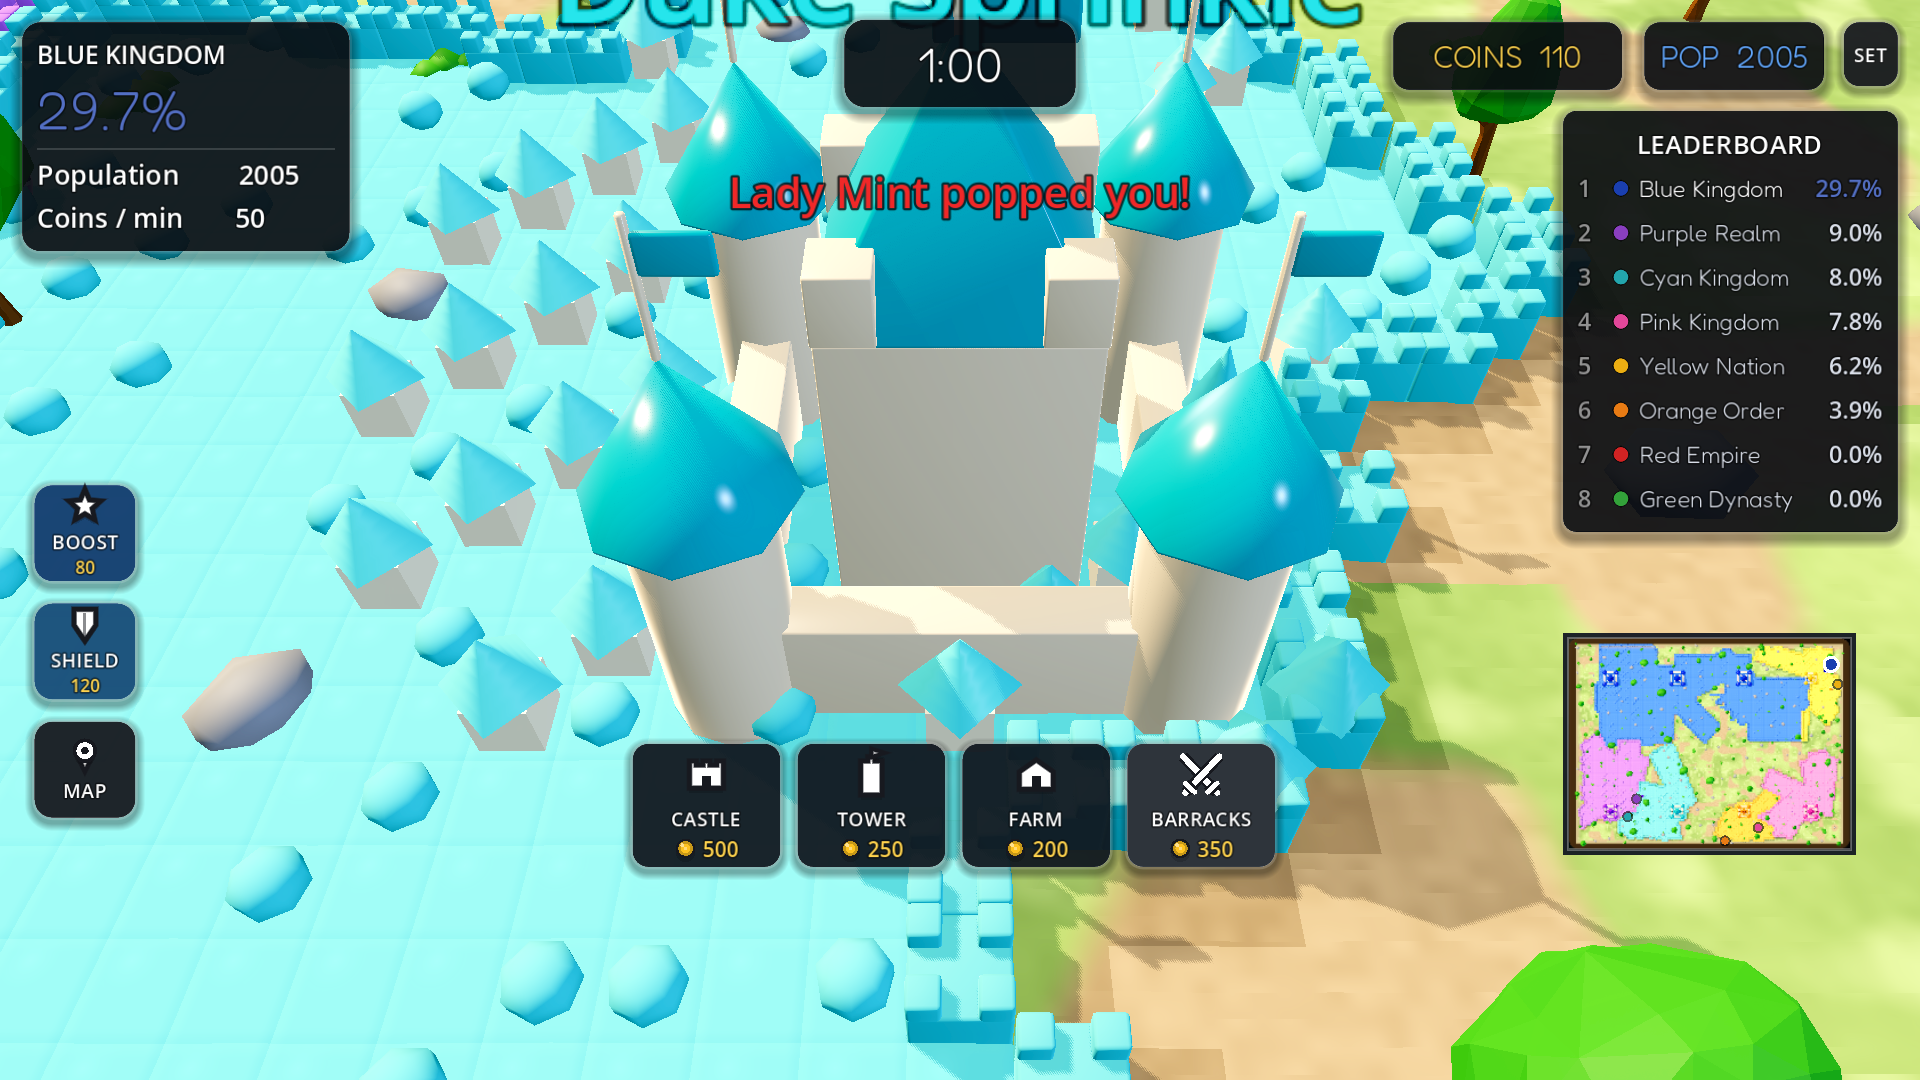
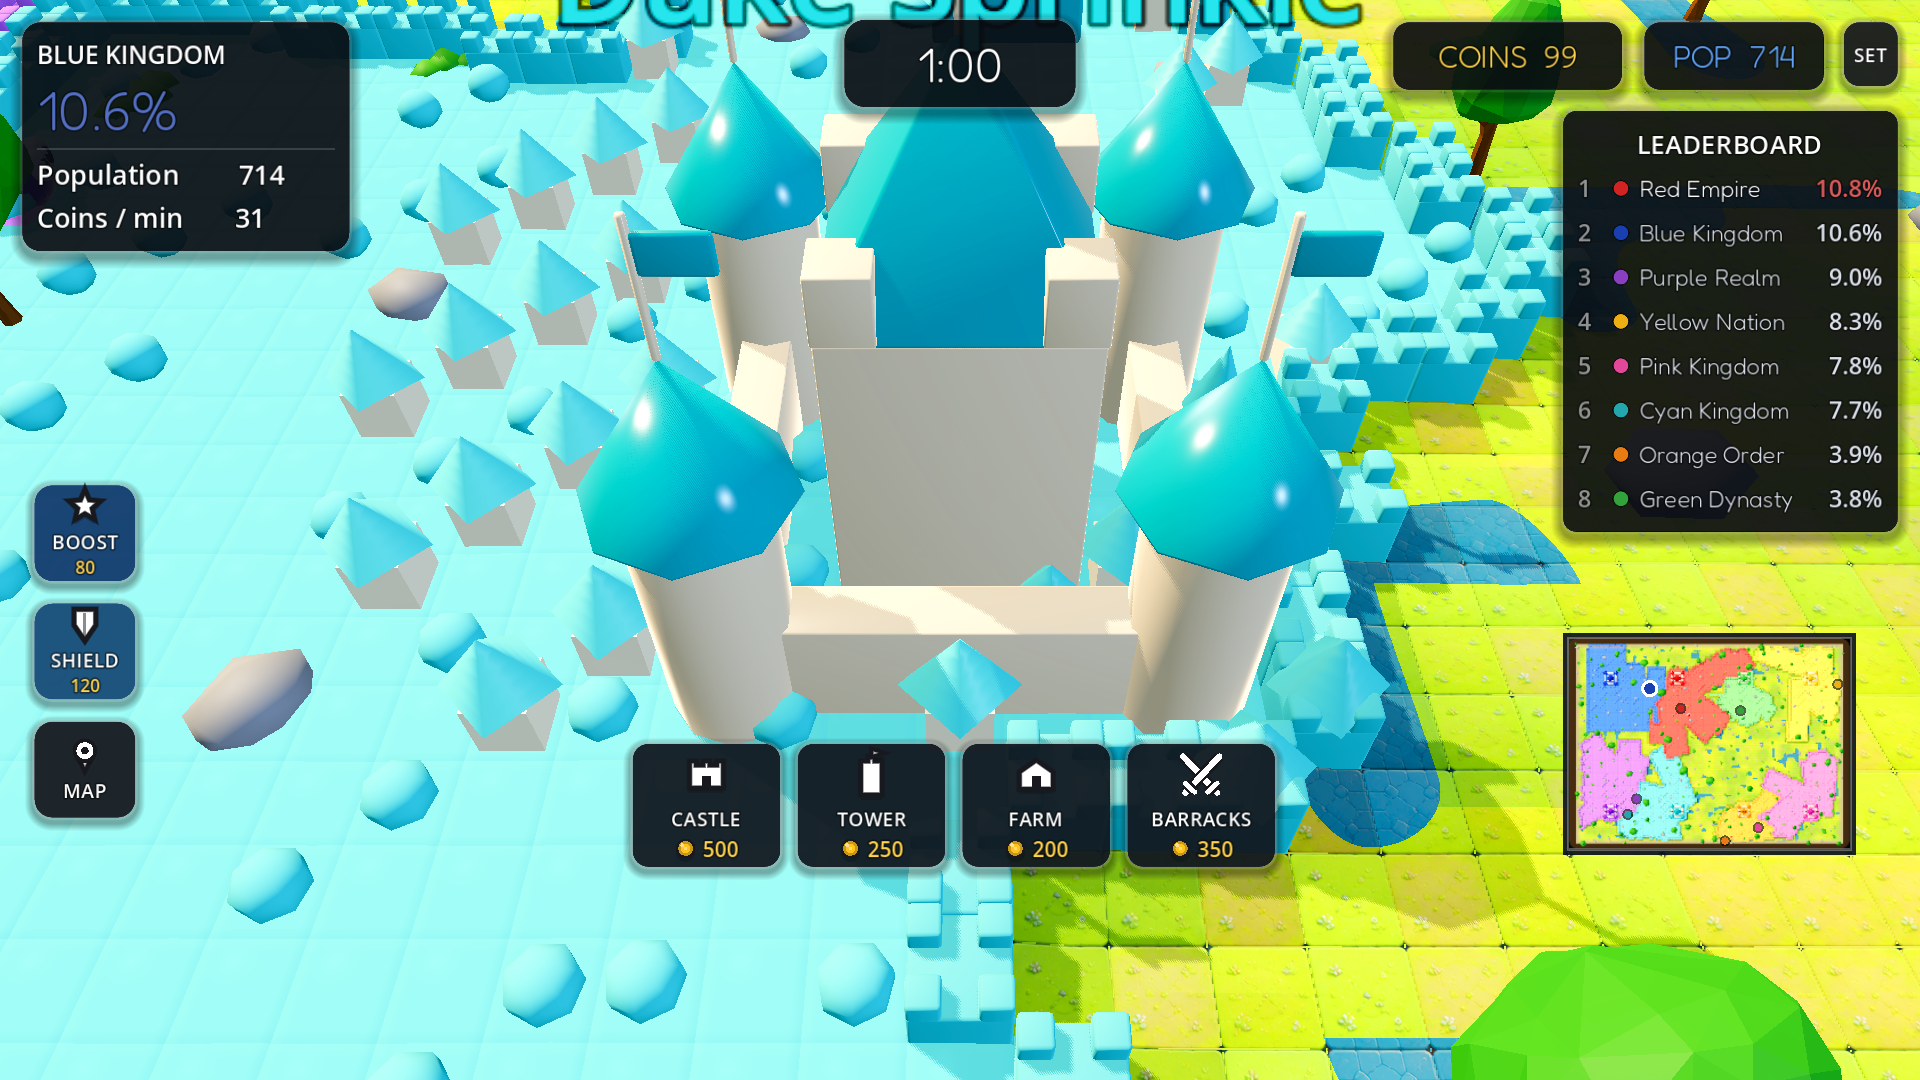
udpated tiles to sand and plants

diff --git a/tools/mascot_variants.py b/tools/mascot_variants.py
@@ -1,0 +1,247 @@
+"""
+tools/mascot_variants.py — generate CUTE blob mascot OPTIONS and render a
+contact sheet so we can pick one before committing it to players/mascot.glb.
+
+Builds 5 variants in a row (along +Y) and renders one wide image:
+    tools/_mascot_preview/mascot_options.png
+
+Each variant keeps the in-game constraints:
+    +X = face/forward, +Z = up, body bottom at Z=0, white-tintable body.
+For the PREVIEW only, the body is tinted soft periwinkle so the form reads
+(in-game it stays white and is team-recoloured by the vinyl_toy shader).
+
+Run:
+    blender --background --python tools/mascot_variants.py
+"""
+import bpy, math, os
+
+# ─────────────────────────── scene reset ────────────────────────────────────
+bpy.ops.object.select_all(action="SELECT")
+bpy.ops.object.delete()
+for col in (bpy.data.meshes, bpy.data.materials, bpy.data.curves,
+            bpy.data.cameras, bpy.data.lights, bpy.data.objects):
+    for item in list(col):
+        try: col.remove(item)
+        except Exception: pass
+
+# ─────────────────────────── materials ──────────────────────────────────────
+def mat(name, r, g, b, rough=0.5, metallic=0.0, alpha=1.0, emit=0.0):
+    m = bpy.data.materials.new(name); m.use_fake_user = True; m.use_nodes = True
+    b_ = m.node_tree.nodes["Principled BSDF"]
+    b_.inputs["Base Color"].default_value = (r, g, b, 1.0)
+    b_.inputs["Roughness"].default_value = rough
+    b_.inputs["Metallic"].default_value = metallic
+    if emit > 0:
+        b_.inputs["Emission Color"].default_value = (r, g, b, 1.0)
+        b_.inputs["Emission Strength"].default_value = emit
+    if alpha < 1.0:
+        b_.inputs["Alpha"].default_value = alpha; m.blend_method = "BLEND"
+    return m
+
+BODY  = mat("body",      0.36, 0.54, 0.93, rough=0.42)   # preview periwinkle
+WHITE = mat("eye_white", 1.00, 1.00, 1.00, rough=0.07)
+DARK  = mat("pupil",     0.05, 0.04, 0.10, rough=0.18)
+SHINE = mat("shine",     1.00, 1.00, 1.00, rough=0.02, metallic=0.2)
+CHEEK = mat("cheek",     1.00, 0.46, 0.55, rough=0.85, alpha=0.65)
+LEAF  = mat("leaf",      0.42, 0.78, 0.36, rough=0.45)
+STEM  = mat("stem",      0.55, 0.42, 0.28, rough=0.6)
+
+# ─────────────────────────── primitives ─────────────────────────────────────
+def smooth(o):
+    for p in o.data.polygons: p.use_smooth = True
+
+def ball(name, loc, r, sx=1.0, sy=1.0, sz=1.0, m=BODY, segs=32, rings=22, subsurf=0):
+    bpy.ops.mesh.primitive_uv_sphere_add(radius=r, segments=segs, ring_count=rings, location=loc)
+    o = bpy.context.active_object; o.name = name
+    if (sx, sy, sz) != (1, 1, 1):
+        o.scale = (sx, sy, sz); bpy.ops.object.transform_apply(scale=True)
+    smooth(o)
+    if subsurf:
+        s = o.modifiers.new("s", "SUBSURF"); s.levels = subsurf
+        bpy.ops.object.modifier_apply(modifier="s")
+    o.data.materials.clear(); o.data.materials.append(m)
+    return o
+
+def cone(name, loc, r1, r2, depth, m=BODY, rot=(0, 0, 0)):
+    bpy.ops.mesh.primitive_cone_add(vertices=20, radius1=r1, radius2=r2, depth=depth, location=loc)
+    o = bpy.context.active_object; o.name = name
+    o.rotation_euler = rot
+    bpy.ops.object.transform_apply(rotation=True)
+    smooth(o)
+    o.data.materials.clear(); o.data.materials.append(m)
+    return o
+
+def arc(name, cy, cz, half_w, sag, xf, bevel, m, n=26, smile=True):
+    """Bevelled poly arc on the +X face. smile=True → U (valley at centre)."""
+    cu = bpy.data.curves.new(name, "CURVE"); cu.dimensions = "3D"
+    cu.bevel_depth = bevel; cu.bevel_resolution = 4
+    sp = cu.splines.new("POLY"); sp.points.add(n - 1)
+    for i in range(n):
+        t = i / (n - 1) * 2 - 1            # -1..1
+        y = cy + t * half_w
+        if smile:                           # valley at centre, ends up
+            z = cz + sag * (t * t)
+        else:                               # arch (^) peak at centre
+            z = cz + sag * (1 - t * t)
+        sp.points[i].co = (xf, y, z, 1.0)
+    o = bpy.data.objects.new(name, cu); bpy.context.collection.objects.link(o)
+    o.data.materials.append(m)
+    return o
+
+# parts that should sit just proud of an ellipsoid front face
+def front_x(y, z, cz, rx, ry, rz, eps=0.02):
+    k = 1 - (y / ry) ** 2 - ((z - cz) / rz) ** 2
+    return rx * math.sqrt(max(0.04, k)) + eps
+
+def eyes(yoff, cz, rx, ry, rz, ew_r, sep, ez, gaze_dn=0.04, sparkle=False, m_scale=1.0):
+    """Big glossy googly eyes on +X face. yoff shifts whole rig along Y (row layout)."""
+    out = []
+    for tag, s in (("l", -1), ("r", 1)):
+        ey = s * sep
+        xw = front_x(ey, ez, cz, rx, ry, rz, eps=-0.05)     # whites sink into body a touch
+        w = ball(f"eye_white_{tag}", (xw, yoff + ey, ez), ew_r, m=WHITE, segs=20, rings=16)
+        xp = xw + ew_r * 0.85
+        p = ball(f"pupil_{tag}", (xp, yoff + ey, ez - gaze_dn), ew_r * 0.52, m=DARK, segs=16, rings=12)
+        sh = ball(f"shine_{tag}", (xp + ew_r * 0.30, yoff + ey - ew_r * 0.28, ez + ew_r * 0.30),
+                  ew_r * 0.20, m=SHINE, segs=10, rings=8)
+        out += [w, p, sh]
+        if sparkle:
+            out.append(ball(f"shine2_{tag}", (xp + ew_r * 0.30, yoff + ey + ew_r * 0.18, ez - ew_r * 0.22),
+                            ew_r * 0.10, m=SHINE, segs=8, rings=6))
+    return out
+
+def cheeks(yoff, cz, rx, ry, rz, cy_sep, cz_h, r=0.16):
+    out = []
+    for s in (-1, 1):
+        y = s * cy_sep
+        x = front_x(y, cz_h, cz, rx, ry, rz, eps=0.0)
+        out.append(ball(f"cheek_{'l' if s<0 else 'r'}", (x, yoff + y, cz_h), r, sx=0.12, m=CHEEK, segs=16, rings=10))
+    return out
+
+def feet(yoff, sep=0.17, fx=0.18, fz=0.07, r=0.17):
+    return [ball(f"foot_{'l' if s<0 else 'r'}", (fx, yoff + s*sep, fz), r, sx=0.95, sy=0.85, sz=0.55, m=BODY, segs=14, rings=10)
+            for s in (-1, 1)]
+
+# ─────────────────────────── variants ───────────────────────────────────────
+# Each returns nothing; just spawns its parts at the given row offset (along Y).
+
+def v_chonk(y):   # 1: extra-round chubby, huge close eyes, big blush, lil smile
+    cz, r = 0.74, 0.82
+    ball("c_body", (0, y, cz), r, sz=0.95, m=BODY, segs=44, rings=30)
+    rx = ry = r; rz = r * 0.95
+    eyes(y, cz, rx, ry, rz, 0.26, 0.235, cz + 0.18, gaze_dn=0.05)
+    cheeks(y, cz, rx, ry, rz, 0.42, cz - 0.12, r=0.18)
+    arc("c_smile", y, cz - 0.04, 0.16, 0.10, front_x(0, cz-0.04, cz, rx, ry, rz, 0.01), 0.028, DARK, smile=True)
+    feet(y, sep=0.2)
+
+def v_bean(y):    # 2: taller rounded bean, eyes high & close, soft smile, feet
+    cz, r = 0.88, 0.62
+    ball("b_body", (0, y, cz), r, sz=1.30, m=BODY, segs=44, rings=32)
+    rx = ry = r; rz = r * 1.30
+    eyes(y, cz, rx, ry, rz, 0.165, 0.165, cz + 0.34, gaze_dn=0.03)
+    cheeks(y, cz, rx, ry, rz, 0.30, cz + 0.06, r=0.12)
+    arc("b_smile", y, cz + 0.18, 0.11, 0.07, front_x(0, cz+0.18, cz, rx, ry, rz, 0.01), 0.022, DARK, smile=True)
+    feet(y, sep=0.15, r=0.14)
+
+def v_sleepy(y):  # 3: wide squashed dumpling, happy closed (^_^) eyes, big blush
+    cz, r = 0.62, 0.92
+    ball("s_body", (0, y, cz), r, sz=0.78, m=BODY, segs=44, rings=30)
+    rx = ry = r; rz = r * 0.78
+    ez = cz + 0.16
+    for s in (-1, 1):
+        ey = s * 0.30
+        xf = front_x(ey, ez, cz, rx, ry, rz, 0.01)
+        arc(f"s_eye_{'l' if s<0 else 'r'}", y + ey, ez, 0.13, 0.10, xf, 0.026, DARK, smile=False)
+    cheeks(y, cz, rx, ry, rz, 0.50, cz - 0.06, r=0.20)
+    arc("s_smile", y, cz - 0.10, 0.12, 0.06, front_x(0, cz-0.10, cz, rx, ry, rz, 0.01), 0.022, DARK, smile=True)
+
+def v_sprout(y):  # 4: round body + leaf sprout on top, sparkly eyes, open smile
+    cz, r = 0.74, 0.74
+    ball("p_body", (0, y, cz), r, sz=1.02, m=BODY, segs=44, rings=30)
+    rx = ry = r; rz = r * 1.02
+    eyes(y, cz, rx, ry, rz, 0.20, 0.205, cz + 0.22, gaze_dn=0.03, sparkle=True)
+    cheeks(y, cz, rx, ry, rz, 0.40, cz - 0.04, r=0.15)
+    # open "o" smile = small dark flattened ball
+    xs = front_x(0, cz - 0.06, cz, rx, ry, rz, 0.0)
+    ball("p_mouth_pupil", (xs, y, cz - 0.06), 0.075, sx=0.5, sy=0.9, sz=0.7, m=DARK, segs=14, rings=10)
+    # stem + leaves on top
+    top = cz + rz
+    cone("p_stem", (0, y, top + 0.10), 0.045, 0.03, 0.22, m=STEM)
+    ball("p_leaf_l", (0, y - 0.10, top + 0.22), 0.12, sx=0.4, sy=1.0, sz=0.6, m=LEAF, segs=14, rings=10)
+    ball("p_leaf_r", (0, y + 0.10, top + 0.22), 0.12, sx=0.4, sy=1.0, sz=0.6, m=LEAF, segs=14, rings=10)
+
+def v_cat(y):     # 5: round body + kitty ears, big eyes, :3 mouth, paw feet
+    cz, r = 0.72, 0.78
+    ball("k_body", (0, y, cz), r, sz=1.00, m=BODY, segs=44, rings=30)
+    rx = ry = r; rz = r
+    eyes(y, cz, rx, ry, rz, 0.21, 0.205, cz + 0.16, gaze_dn=0.04)
+    cheeks(y, cz, rx, ry, rz, 0.42, cz - 0.10, r=0.16)
+    # :3 mouth — two little smile arcs meeting at centre
+    zc = cz - 0.10
+    xf = front_x(0.0, zc, cz, rx, ry, rz, 0.01)
+    arc("k_m_l", y - 0.07, zc, 0.07, 0.05, xf, 0.02, DARK, smile=True)
+    arc("k_m_r", y + 0.07, zc, 0.07, 0.05, xf, 0.02, DARK, smile=True)
+    # ears — flattened cones on top, tilted outward
+    top = cz + rz
+    cone("k_ear_l", (0, y - 0.34, top - 0.02), 0.20, 0.0, 0.34, m=BODY, rot=(-0.5, 0, 0))
+    cone("k_ear_r", (0, y + 0.34, top - 0.02), 0.20, 0.0, 0.34, m=BODY, rot=(0.5, 0, 0))
+    feet(y, sep=0.18)
+
+VARIANTS = [v_chonk, v_bean, v_sleepy, v_sprout, v_cat]
+SPACING = 3.0
+y0 = -(len(VARIANTS) - 1) / 2 * SPACING
+for i, fn in enumerate(VARIANTS):
+    fn(y0 + i * SPACING)
+
+# ─────────────────────────── lighting / world ───────────────────────────────
+world = bpy.data.worlds.new("w"); bpy.context.scene.world = world
+world.use_nodes = True
+world.node_tree.nodes["Background"].inputs[0].default_value = (0.74, 0.80, 0.90, 1.0)
+world.node_tree.nodes["Background"].inputs[1].default_value = 0.9
+
+def light(kind, loc, energy, rot=(0, 0, 0), size=5.0, color=(1, 1, 1)):
+    d = bpy.data.lights.new("L", kind); d.energy = energy; d.color = color
+    if kind == "AREA": d.size = size
+    o = bpy.data.objects.new("L", d); o.location = loc; o.rotation_euler = rot
+    bpy.context.collection.objects.link(o); return o
+
+light("AREA", (8, -4, 9), 1300, rot=(math.radians(-35), math.radians(20), 0), size=12, color=(1.0, 0.97, 0.92))
+light("AREA", (6, 6, 5), 550, rot=(math.radians(-25), math.radians(-30), 0), size=10, color=(0.85, 0.92, 1.0))
+light("SUN",  (0, 0, 10), 0.5, rot=(math.radians(-20), math.radians(10), 0))
+
+# ground plane (soft) for contact shadows
+bpy.ops.mesh.primitive_plane_add(size=60, location=(0, 0, -0.001))
+gp = bpy.context.active_object
+gp.data.materials.append(mat("ground", 0.80, 0.85, 0.93, rough=0.9))
+
+# ─────────────────────────── camera (ortho, symmetric 3/4) ──────────────────
+cam_d = bpy.data.cameras.new("cam"); cam_d.type = "ORTHO"; cam_d.ortho_scale = 14.2
+cam = bpy.data.objects.new("cam", cam_d)
+cam.location = (11, 0, 5.4)
+bpy.context.collection.objects.link(cam)
+tgt = bpy.data.objects.new("tgt", None); tgt.location = (0, 0, 0.85)
+bpy.context.collection.objects.link(tgt)
+c = cam.constraints.new("TRACK_TO"); c.target = tgt
+c.track_axis = "TRACK_NEGATIVE_Z"; c.up_axis = "UP_Y"
+bpy.context.scene.camera = cam
+
+# ─────────────────────────── render ─────────────────────────────────────────
+sc = bpy.context.scene
+try: sc.render.engine = "BLENDER_EEVEE_NEXT"
+except Exception:
+    try: sc.render.engine = "BLENDER_EEVEE"
+    except Exception: pass
+try: sc.eevee.taa_render_samples = 32
+except Exception: pass
+sc.render.resolution_x = 2600
+sc.render.resolution_y = 720
+sc.render.film_transparent = False
+sc.view_settings.view_transform = "Standard"
+sc.view_settings.exposure = -0.3
+
+here = os.path.dirname(os.path.abspath(__file__)) if "__file__" in dir() else os.getcwd()
+outdir = os.path.join(here, "_mascot_preview")
+os.makedirs(outdir, exist_ok=True)
+sc.render.filepath = os.path.join(outdir, "mascot_options.png")
+bpy.ops.render.render(write_still=True)
+print(f"RENDER_OK: {sc.render.filepath}")